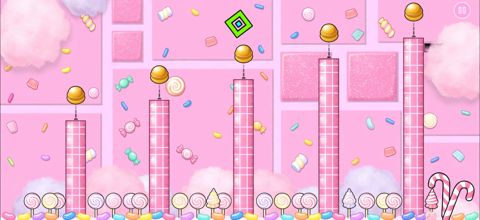
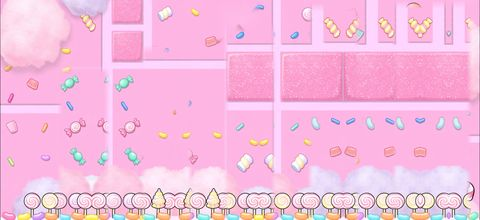
upp

diff --git a/script.js b/script.js
@@ -1,4 +1,3 @@
-// ========== SALVAR E CARREGAR (localStorage) ==========
 const $=s=>document.querySelector(s), mem={};
 const st={get(k, d) {
     try {
@@ -26,20 +25,18 @@ const save=()=> {
   st.set('lvl', lvl);
   st.set('env', env)
 };
+const LIBERAR_AMBIENTES = false, LIBERAR_NIVEIS = false;
 const lid=(e, n)=>e*100+n, envDone=e=> {
   let c=0;
   for(let n=1;n<=15;n++)if(done.includes(lid(e, n)))c++;
   return c
-}, envOpen=e=>e==0||envDone(e-1)==15;
-
-// ========== PERSONAGENS (nome, cor, preço, acessório) ==========
+}, envOpen=e=>LIBERAR_AMBIENTES||e==0||envDone(e-1)==15;
 const CH=[{id:'roxo', n:'ROXO', c:'#9b4dff', t:'#ff6bf0', p:0}, {id:'rosa', n:'ROSA', c:'#ff7eb6', t:'#ff9fd0', p:20, a:'bow'},
   {id:'azul', n:'AZUL', c:'#3d8bff', t:'#6fc3ff', p:30, a:'shades'}, {id:'amarelo', n:'AMARELO', c:'#ffd23d', t:'#ffe066', p:30, a:'crown'},
   {id:'verde', n:'VERDE', c:'#4fe04a', t:'#8dff7a', p:40, a:'headset'}, {id:'laranja', n:'LARANJA', c:'#ff9a2e', t:'#ffb45c', p:40, a:'hat'},
   {id:'branco', n:'BRANCO', c:'#f4f0ff', t:'#9ff4ff', p:50, a:'wings'}, {id:'preto', n:'PRETO', c:'#2b2433', t:'#c58cff', p:60, a:'cape'}];
 const cur=()=>CH.find(c=>c.id===sel)||CH[0];
 
-// ========== DESENHO DOS PERSONAGENS (canvas) ==========
 function drawCube(g, ch, s) {
 
   const R=(x, y, w, h, r)=> {
@@ -158,7 +155,6 @@ function icon(cv, ch) {
   g.restore()
 }
 
-// ========== TELAS E INTERFACE ==========
 function toast(m) {
   const t=$('#toast');
   t.textContent=m;
@@ -236,13 +232,10 @@ function renderChars() {
   n.textContent=c.n;
   n.style.color=c.t
 }
-
-/* ===== JOGO ===== */
 const cv=$('#cv'), g=cv.getContext('2d'), W=960, H=540, T=48, GY=430, PX=230, GR=62, JV=17.5, AIR=2*JV/GR;
 
 let spd=9, Q=st.get('q', 2), TH, run=false, last=0, acc=0, held=false, won=false, flash=0, L, P;
 
-// ========== AMBIENTES (cores, decoração e miniaturas) ==========
 const IMG=["img/cidade-neon.jpg", "img/candy.jpg", "img/floresta.jpg", "img/mar.jpg", "img/por-do-sol.jpg", "img/gelo.jpg", "img/noite-escura.jpg", "img/galaxia.jpg", "img/vulcao.jpg"];
 
 const ENVS=[
@@ -256,6 +249,12 @@ const ENVS=[
   {n:'GALÁXIA', sky:['#0B0B09', '#321C4A', '#2D2643'], gf:'#160a2e', acc:'#c34bff', sf:'#25104a', blk:'#2a1450', bb:'#c34bff', sh:['c', '#3a1a6a', ''], pt:['#ffffff', 'st']},
   {n:'VULCÃO', sky:['#400401', '#620A03', '#942F0C'], gf:'#2a0400', acc:'#ff5a1f', sf:'#1a0300', blk:'#3a0f08', bb:'#ff5a1f', sh:['t', '#2a0a05', ''], pt:['#ffa040', 'up']}];
 ENVS.forEach((e, i)=>e.img=IMG[i]);
+const BGS=["bg/cidade-neon.jpg", "bg/candy.jpg", "bg/floresta.jpg", "bg/mar.jpg", "bg/por-do-sol.jpg", "bg/gelo.jpg", "bg/noite-escura.jpg", "bg/galaxia.jpg", "bg/vulcao.jpg"];
+const BG=BGS.map(s=>{const im=new Image();im.src=s;return im});
+function bgDraw(){const im=BG[env];if(!im||!im.naturalWidth){deco();return}
+ const w=1180,sc=P.x*T*.3,k=Math.floor(sc/w),off=-(sc-k*w);
+ for(let j=0;j<3;j++){const x=off+j*w;g.save();if((k+j)&1){g.translate(x+w,0);g.scale(-1,1);g.drawImage(im,0,0,w,H)}else g.drawImage(im,x,0,w,H);g.restore()}}
+
 
 function deco() {
   const k=P.x*T, tm=performance.now()/1e3, wr=(v, m)=>(v%m+m)%m, [ty, sc, tc]=TH.sh, [pc, pm]=TH.pt;
@@ -303,8 +302,7 @@ function deco() {
   g.globalAlpha=1
 }
 
-// Gera os obstáculos de um nível (cada ambiente/nível muda a dificuldade)
-function gen(n, e=0) {
+function gen(n, e) {
   const m=n+e*3;
   let s=(e*15+n)*9301+49297;
   const r=()=>(s=s*16807%2147483647)/2147483647, o=[], d=Math.min(1, (m-1)/14), sp=8.6+Math.min(m, 15)*.18+e*.3, len=90+n*18+e*10;
@@ -403,8 +401,6 @@ function die() {
   flash=1;
   reset()
 }
-
-// Física: movimento, pulo, colisões, morte e vitória
 function step(dt) {
 
   P.x+=spd*dt;
@@ -494,7 +490,6 @@ function sx(x) {
   return(x-P.x)*T+PX
 }
 
-// Desenho de cada quadro do jogo
 function render() {
 
   const bg=g.createLinearGradient(0, 0, 0, H);
@@ -503,7 +498,7 @@ function render() {
   bg.addColorStop(1, TH.sky[2]);
   g.fillStyle=bg;
   g.fillRect(0, 0, W, H);
-  deco();
+  bgDraw();
 
   g.fillStyle=TH.gf;
   g.fillRect(0, GY, W, H-GY);
@@ -618,8 +613,6 @@ function loop(t) {
   render();
   requestAnimationFrame(loop)
 }
-
-// ========== CONTROLES ==========
 const down=e=> {
   if(run) {
     held=true;
@@ -646,7 +639,6 @@ $('#next').onclick=()=> {
   $('#next').textContent=='AMBIENTES'?show('envs'):start()
 };
 
-// ========== TELA DE NÍVEIS / AMBIENTES / CONFIGURAÇÕES ==========
 function renderLevels() {
   const e=$('#lgrid');
   e.innerHTML='';
@@ -654,7 +646,7 @@ function renderLevels() {
   for(let n=1;n<=15;n++) {
     const id=lid(env, n), b=document.createElement('button');
     b.className='lvb'+(done.includes(id)?' done':'');
-    b.disabled=!(n==1||done.includes(id-1));
+    b.disabled=!(LIBERAR_NIVEIS||n==1||done.includes(id-1));
     b.innerHTML=n+'<small>'+(n<4?'FÁCIL':n<8?'MÉDIO':n<12?'DIFÍCIL':'EXTREMO')+'</small>';
     b.onclick=()=> {
       lvl=n;
@@ -721,9 +713,3 @@ $('#rs').onclick=()=> {
 };
 $('#goLv').onclick=()=>show('envs');$('#b4').onclick=()=>show('menu');$('#goCfg').onclick=()=>show('cfg');$('#b2').onclick=()=>show('envs');$('#b3').onclick=()=>show('menu');$('#home').onclick=()=>show('menu');
 renderMenu();
-
-// ========== CELULAR / INSTALAÇÃO (PWA) ==========
-addEventListener('contextmenu', e => e.preventDefault());
-if ('serviceWorker' in navigator && location.protocol.startsWith('http')) {
-  navigator.serviceWorker.register('sw.js').catch(() => {});
-}

diff --git a/sw.js b/sw.js
@@ -1,5 +1,8 @@
+// Guarda os arquivos para o jogo abrir sem internet
+const NOME = 'neon-dash-v3';
 const ARQUIVOS = ['./', 'index.html', 'style.css', 'script.js', 'manifest.json',
   'icons/icon-192.png', 'icons/icon-512.png',
+  'bg/cidade-neon.jpg', 'bg/candy.jpg', 'bg/floresta.jpg', 'bg/mar.jpg', 'bg/por-do-sol.jpg', 'bg/gelo.jpg', 'bg/noite-escura.jpg', 'bg/galaxia.jpg', 'bg/vulcao.jpg',
   'img/cidade-neon.jpg', 'img/candy.jpg', 'img/floresta.jpg', 'img/mar.jpg', 'img/por-do-sol.jpg',
   'img/gelo.jpg', 'img/noite-escura.jpg', 'img/galaxia.jpg', 'img/vulcao.jpg'];
 self.addEventListener('install', e => e.waitUntil(caches.open(NOME).then(c => c.addAll(ARQUIVOS))));
